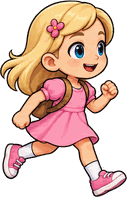
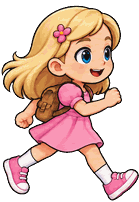
Fix "Дальше" on phones, smooth 6-frame run, crouch with low shots
- Level-complete card: the nested button kept scrollFactor 1, so its tap
  area drifted by the camera scroll and "Дальше" worked only near the start
  of a level; pinToScreen() fixes the whole card, plus a double-press guard
- New Codex run cycle (6 frames, legs alternate, frames aligned on the
  head with a shared ground line) instead of the limping 4-frame one
- Crouch: hold down (keyboard or an almost vertical push on the pad) to
  squat; smaller body, low shots hit hedgehogs, stands up only with room
  above; body resize keeps prev positions so platforms don't drop Alice

diff --git a/src/game/player.ts b/src/game/player.ts
@@ -1,6 +1,6 @@
 import Phaser from 'phaser';
 import { PHYS, PLAYER } from './constants';
-import { REF_H as REF } from './assets';
+import { REF_H as REF, hasArt } from './assets';
 import { InputState } from './controls';
 import { sfx } from './sfx';
 import type { LevelScene } from '../scenes/Level';
@@ -16,6 +16,7 @@ export class Player {
   maxHearts: number;
   climbing = false;
   shieldOn = false;
+  crouching = false;
   frozen = false;
 
   private lastGround = -9999;
@@ -76,6 +77,7 @@ export class Player {
     // --- climbing trees and vines ---
     const climbHere = this.scene.climbableAt(b.center.x, b.center.y);
     if (!this.climbing && climbHere && (inp.up || (inp.down && !this.onGround)) && now > this.climbLockUntil && !hurt) {
+      if (this.crouching) this.setCrouch(false);
       this.climbing = true;
       this.airJumps = 0;
     }
@@ -110,10 +112,15 @@ export class Player {
       }
     }
 
+    // --- crouch (hold down on the ground): smaller body, low shots; stands up only where there is room ---
+    const wantCrouch = inp.down && this.onGround && !hurt;
+    if (wantCrouch && !this.crouching) this.setCrouch(true);
+    else if (!wantCrouch && this.crouching && this.canStand()) this.setCrouch(false);
+
     // --- running, shield ---
-    this.shieldOn = inp.shield && !hurt;
+    this.shieldOn = inp.shield && !hurt && !this.crouching;
     if (!hurt) {
-      const speed = this.shieldOn ? PHYS.shieldSpeed : PHYS.runSpeed;
+      const speed = this.crouching ? 0 : this.shieldOn ? PHYS.shieldSpeed : PHYS.runSpeed;
       const target = dir * speed;
       const accel = this.onGround ? 0.35 : 0.2;
       b.setVelocityX(Phaser.Math.Linear(b.velocity.x, target, accel));
@@ -121,7 +128,8 @@ export class Player {
     }
 
     // --- jumping: coyote time, buffer, double jump, variable height ---
-    if (this.jumpBufferUntil > now && !hurt) {
+    if (this.jumpBufferUntil > now && !hurt && this.crouching && this.canStand()) this.setCrouch(false);
+    if (this.jumpBufferUntil > now && !hurt && !this.crouching) {
       if (now - this.lastGround < PHYS.coyoteMs) {
         b.setVelocityY(-PHYS.jumpVel);
         this.lastGround = -9999;
@@ -141,10 +149,31 @@ export class Player {
     if (inp.shoot && now >= this.shootReadyAt && !this.shieldOn && !hurt) {
       this.shootReadyAt = now + PLAYER.shootCdMs;
       this.shootAnimUntil = now + 220;
-      this.scene.shootHeart(b.center.x + this.facing * 40, b.center.y - 6, this.facing);
+      // from a crouch the heart flies low, at hedgehog height
+      const y = this.crouching ? b.bottom - 40 : b.center.y - 6;
+      this.scene.shootHeart(b.center.x + this.facing * 40, y, this.facing);
     }
 
     this.render(now, dt);
+  }
+
+  private setCrouch(on: boolean) {
+    this.crouching = on;
+    const h = on ? PLAYER.crouchH : PLAYER.bodyH;
+    // the zone is bodyH tall; keep the feet where they are by offsetting the smaller body down
+    this.body.setSize(PLAYER.bodyW, h, false);
+    this.body.setOffset(0, PLAYER.bodyH - h);
+    // same frame: platforms, shots and the sprite see the new size. prev/prevFrame must follow too, otherwise
+    // the physics post-update reads the offset change as movement and shoves the zone 32px (through platforms)
+    this.body.updateFromGameObject();
+    this.body.prev.copy(this.body.position);
+    this.body.prevFrame.copy(this.body.position);
+  }
+
+  private canStand() {
+    const b = this.body;
+    const top = b.bottom - PLAYER.bodyH + 4;
+    return !this.scene.solidAt(b.left + 4, top) && !this.scene.solidAt(b.right - 4, top);
   }
 
   private stopClimb() {
@@ -157,23 +186,27 @@ export class Player {
     let key = 'alice-idle';
     if (now < this.hurtUntil) key = 'alice-hurt';
     else if (this.climbing) key = Math.floor(this.climbClock * 6) % 2 ? 'alice-climb2' : 'alice-climb1';
+    else if (this.crouching && hasArt(this.scene, 'alice-crouch')) key = now < this.shootAnimUntil ? 'alice-crouch-shoot' : 'alice-crouch';
+    else if (this.crouching) key = 'alice-shield'; // fallback pose if the crouch art is missing
     else if (this.shieldOn) key = 'alice-shield';
     else if (now < this.shootAnimUntil) key = 'alice-shoot';
     else if (!this.onGround) key = b.velocity.y < 0 ? 'alice-jump' : 'alice-fall';
     else if (Math.abs(b.velocity.x) > 20) {
-      const before = Math.floor(this.runClock * 12);
+      // 6-frame cycle (contact, down, passing for each leg); the old 4-frame art is a fallback
+      const frames = hasArt(this.scene, 'alice-run6') ? 6 : 4;
+      const fps = frames === 6 ? 14 : 12;
+      const before = Math.floor(this.runClock * fps);
       this.runClock += dt * (Math.abs(b.velocity.x) / PHYS.runSpeed);
-      const frame = Math.floor(this.runClock * 12);
-      key = `alice-run${(frame % 4) + 1}`;
-      // a footstep whenever a foot lands (frames 1 and 3 of the run cycle)
-      if (frame !== before && frame % 2 === 0) sfx.step(this.scene.def.ground === 'grass' ? 'grass' : 'stone');
+      const frame = Math.floor(this.runClock * fps);
+      key = `alice-run${(frame % frames) + 1}`;
+      // a footstep whenever a foot lands (the contact frames)
+      if (frame !== before && frame % (frames / 2) === 0) sfx.step(this.scene.def.ground === 'grass' ? 'grass' : 'stone');
     }
     this.view.setTexture(key);
     this.view.setFlipX(this.facing < 0);
     this.view.setPosition(b.center.x, b.bottom + 3);
-    const breathe = key === 'alice-idle' ? 1 + Math.sin(now / 300) * 0.015 : 1;
-    const s = PLAYER.viewH / REF.character;
-    this.view.setScale(s, s * breathe);
+    const breathe = key === 'alice-idle' ? 1 + Math.sin(now / 300) * 0.01 : 1;
+    this.view.setScale((PLAYER.viewH / REF.character) * breathe);
     this.view.setAlpha(this.invulnerable && Math.floor(now / 60) % 2 ? 0.55 : 1);
   }
 
@@ -207,6 +240,7 @@ export class Player {
 
   teleport(x: number, y: number) {
     if (this.climbing) this.stopClimb();
+    if (this.crouching) this.setCrouch(false);
     this.body.reset(x, y);
     this.body.setVelocity(0, 0);
     this.invulnUntil = this.scene.time.now + PLAYER.invulnMs;

diff --git a/src/scenes/Level.ts b/src/scenes/Level.ts
@@ -5,7 +5,7 @@ import { Player } from '../game/player';
 import { Enemy, ENEMY_CHARS, Witch } from '../game/enemies';
 import { Keyboard, InputState, blank } from '../game/controls';
 import { hasArt } from '../game/assets';
-import { paintedButton, paintedPanel, ribbonTitle } from '../game/ui';
+import { paintedButton, paintedPanel, ribbonTitle, pinToScreen } from '../game/ui';
 import { sfx, playMusic, stopMusic } from '../game/sfx';
 import { load, save } from '../game/save';
 
@@ -177,6 +177,7 @@ export class LevelScene extends Phaser.Scene {
     const banner = this.add.container(viewW(this) / 2, GAME_H * 0.3).setScrollFactor(0).setDepth(100);
     banner.add(ribbonTitle(this, 0, 0, this.def.name, 42, 640));
     banner.add(this.add.text(0, 92, this.def.goal, titleStyle(32)).setOrigin(0.5));
+    pinToScreen(banner);
     this.tweens.add({ targets: banner, alpha: 0, delay: 2200, duration: 600, onComplete: () => banner.destroy() });
   }
 
@@ -1152,11 +1153,17 @@ export class LevelScene extends Phaser.Scene {
     panel.add(this.add.text(0, -30, `★ ${this.starsHere} ${plural(this.starsHere, 'звёздочка', 'звёздочки', 'звёздочек')}`, titleStyle(36, '#ffc93a', '#8a5a00')).setOrigin(0.5));
     const crystals = load().crystals.filter(Boolean).length;
     panel.add(this.add.text(0, 25, `Волшебных ключиков: ${crystals} из 5`, titleStyle(30, '#49c9e8', '#1d4e6b')).setOrigin(0.5));
+    let leaving = false;
     const go = () => {
+      if (leaving) return; // tap and key press must not both fire
+      leaving = true;
       cam.fadeOut(300);
       this.time.delayedCall(320, () => this.scene.start('Map'));
     };
     panel.add(paintedButton(this, 0, 115, 'Дальше ▶', 38, go));
+    // children must not scroll with the camera either, otherwise the button's tap area drifts away
+    // from where it is drawn (on the phone "Дальше" worked only near the start of a level)
+    pinToScreen(panel);
     panel.setScale(0.2).setAlpha(0);
     this.tweens.add({ targets: panel, scale: 1, alpha: 1, duration: 450, delay: 900, ease: 'Back.easeOut' });
 

diff --git a/src/scenes/Menus.ts b/src/scenes/Menus.ts
@@ -91,7 +91,7 @@ export class TitleScene extends Phaser.Scene {
     this.tweens.add({ targets: play, scale: 1.08, yoyo: true, repeat: -1, duration: 700 });
     const hintY = GAME_H - (isTouchDevice() ? 70 : 40);
     const hint = this.add
-      .text(GAME_W / 2, hintY, isTouchDevice() ? 'Кнопки на экране: слева — ходить, справа — прыгать и стрелять' : 'Стрелки — бег  •  Пробел — прыжок  •  X — сердечки  •  Z — щит  •  C — Кеша', titleStyle(22))
+      .text(GAME_W / 2, hintY, isTouchDevice() ? 'Слева — ходить (вниз — присесть), справа — прыгать и стрелять' : 'Стрелки — бег  •  ↓ — присесть  •  Пробел — прыжок  •  X — сердечки  •  Z — щит  •  C — Кеша', titleStyle(22))
       .setOrigin(0.5)
       .setDepth(2);
     const hb = this.add.graphics();

diff --git a/src/game/ui.ts b/src/game/ui.ts
@@ -9,6 +9,16 @@ import { sfx } from './sfx';
  * if a picture is missing, a simple drawn version is used.
  */
 
+/** Fix a container and everything inside it (nested containers too) to the screen. */
+export function pinToScreen(c: Phaser.GameObjects.Container) {
+  c.setScrollFactor(0);
+  for (const child of c.list) {
+    const o = child as Phaser.GameObjects.GameObject & { setScrollFactor?: (x: number, y?: number) => unknown };
+    if (child instanceof Phaser.GameObjects.Container) pinToScreen(child);
+    else o.setScrollFactor?.(0, 0);
+  }
+}
+
 export function paintedButton(scene: Phaser.Scene, x: number, y: number, label: string, size: number, cb: () => void, minWidth = 0) {
   const c = scene.add.container(x, y);
   const text = scene.add.text(0, -size * 0.06, label, titleStyle(size, '#ffffff', '#b8326f')).setOrigin(0.5);

diff --git a/src/scenes/Hud.ts b/src/scenes/Hud.ts
@@ -146,7 +146,8 @@ export class HudScene extends Phaser.Scene {
         if (dx < -38) touch.left = true;
         if (dx > 38) touch.right = true;
         if (dy < -52) touch.up = true;
-        if (dy > 52) touch.down = true;
+        // 'down' (crouch / climb down) only for an almost vertical push: a thumb sliding right-and-down keeps running
+        if (dy > 52 && Math.abs(dx) < dy * 0.6) touch.down = true;
         const len = Math.min(1, Math.hypot(dx, dy) / 120);
         const a = Math.atan2(dy, dx);
         knob = { x: PAD.x + Math.cos(a) * len * 120, y: PAD.y + Math.sin(a) * len * 120 };

diff --git a/src/game/assets.ts b/src/game/assets.ts
@@ -19,6 +19,10 @@ export const ASSETS: Record<string, AssetSpec> = {
   'alice-run2': A(120, 200, 0xff7eb6, 'body'),
   'alice-run3': A(130, 200, 0xff7eb6, 'body'),
   'alice-run4': A(120, 200, 0xff7eb6, 'body'),
+  'alice-run5': A(4, 4, 0, 'none'),
+  'alice-run6': A(4, 4, 0, 'none'),
+  'alice-crouch': A(4, 4, 0, 'none'),
+  'alice-crouch-shoot': A(4, 4, 0, 'none'),
   'alice-jump': A(130, 190, 0xff7eb6, 'body'),
   'alice-fall': A(140, 200, 0xff7eb6, 'body'),
   'alice-climb1': A(110, 210, 0xff7eb6, 'body'),

diff --git a/src/game/constants.ts b/src/game/constants.ts
@@ -41,6 +41,7 @@ export const PHYS = {
 export const PLAYER = {
   bodyW: 40,
   bodyH: 88,
+  crouchH: 56,
   viewH: 114,
   maxHearts: 3,
   heartCap: 5,

diff --git a/art/build_assets.py b/art/build_assets.py
@@ -18,7 +18,7 @@ CHAR_H = 200  # reference height of the first frame of every character sheet (se
 ITEM_H = 128
 
 
-def split(sheet: Image.Image, count: int, min_share=0.02, alpha_floor=0):
+def split(sheet: Image.Image, count: int, min_share=0.02, alpha_floor=0, common_rows=False):
     """Split a sheet of `count` side-by-side objects into images, left to right.
     Separate silhouettes are taken as they are (small bits go to the nearest one);
     touching ones are cut at the emptiest column near each boundary."""
@@ -42,11 +42,15 @@ def split(sheet: Image.Image, count: int, min_share=0.02, alpha_floor=0):
             owner = min(big, key=lambda b: (centre(b)[0] - cx) ** 2 + (centre(b)[1] - cy) ** 2)
             groups[owner].append(k)
         out = []
+        rows = np.nonzero(mask.any(1))[0]
         for k in big:
             keep = np.isin(lab, [g + 1 for g in groups[k]])
             piece = sheet.copy()
             piece.putalpha(Image.fromarray(np.where(keep, a, 0).astype('uint8')))
-            out.append(piece.crop(piece.getbbox()))
+            box = piece.getbbox()
+            if common_rows:
+                box = (box[0], int(rows[0]), box[2], int(rows[-1]) + 1)
+            out.append(piece.crop(box))
         return out
     colsum = mask.sum(0)
     q = sheet.width // count
@@ -73,14 +77,17 @@ def save(img: Image.Image, name: str, jpg=False):
     print(f'  {name}.{"jpg" if jpg else "png"} {img.width}x{img.height}')
 
 
-def sheet(src: str, names: list[str], ref_index=0, ref_h=CHAR_H, same_scale=True, blur=0.0, **kw):
+def sheet(src: str, names: list[str], ref_index=0, ref_h=CHAR_H, same_scale=True, blur=0.0, ref_frame_h=None, **kw):
     path = SRC / src
     if not path.exists():
         print(f'skip {src} (missing)')
         return
     print(src)
     frames = split(Image.open(path).convert('RGBA'), len(names), **kw)
-    k = ref_h / frames[ref_index].height
+    # ref_frame_h: measure the reference by its own silhouette (frames may be padded to a common height)
+    ref_img = frames[ref_index]
+    ref_px = ref_img.getchannel('A').point(lambda v: 255 if v > 40 else 0).getbbox()
+    k = ref_h / ((ref_px[3] - ref_px[1]) if ref_frame_h and ref_px else ref_img.height)
     for f, name in zip(frames, names):
         s = k if same_scale else ref_h / f.height
         out = f.resize((max(1, round(f.width * s)), max(1, round(f.height * s))), Image.LANCZOS)
@@ -114,6 +121,27 @@ def align_on_head(names: list[str]):
     for f, (ax, ay), n in zip(frames, anchors, names):
         canvas = Image.new('RGBA', (left + right, top + bottom), (0, 0, 0, 0))
         canvas.paste(f, (left - ax, top - ay), f)
+        save(canvas, n)
+
+
+def align_on_torso(names: list[str]):
+    """Same canvas for every frame, head/torso (top 40% of the silhouette) at the same x, bottoms kept."""
+    paths = [OUT / f'{n}.png' for n in names]
+    if not all(p.exists() for p in paths):
+        return
+    frames = [Image.open(p).convert('RGBA') for p in paths]
+    anchors = []
+    for f in frames:
+        a = np.asarray(f.getchannel('A')) > 40
+        rows = np.nonzero(a.any(1))[0]
+        top = a[rows[0]: rows[0] + int((rows[-1] - rows[0]) * 0.4)]
+        anchors.append(int(np.nonzero(top)[1].mean()))
+    left = max(anchors)
+    right = max(f.width - ax for f, ax in zip(frames, anchors))
+    height = max(f.height for f in frames)
+    for f, ax, n in zip(frames, anchors, names):
+        canvas = Image.new('RGBA', (left + right, height), (0, 0, 0, 0))
+        canvas.paste(f, (left - ax, height - f.height), f)
         save(canvas, n)
 
 
@@ -160,6 +188,14 @@ sheet('alice-a.png', ['alice-idle', 'alice-run1', 'alice-run2', 'alice-run3', 'a
 sheet('alice-b.png', ['alice-fall', 'alice-climb1', 'alice-climb2', 'alice-shoot', 'alice-shield', 'alice-hurt'], ref_index=3)
 sheet('kesha.png', ['kesha-fly1', 'kesha-fly2', 'kesha-blow'], min_share=0.004)
 align_on_head(['kesha-fly1', 'kesha-fly2', 'kesha-blow'])
+
+# Alice's 6-frame run cycle (legs alternate; the up-phases keep their small bounce because all frames
+# share the sheet's ground line). Scale: the contact frames are as tall as the idle pose.
+sheet('alice-run.png', [f'alice-run{i}' for i in range(1, 7)], ref_h=196, ref_frame_h=True, common_rows=True)
+align_on_torso([f'alice-run{i}' for i in range(1, 7)])
+# crouch: panel 1 is a standing Alice drawn only to match the size, then the two crouch poses
+sheet('alice-crouch.png', ['_alice-ref', 'alice-crouch', 'alice-crouch-shoot'], ref_h=CHAR_H, ref_frame_h=True)
+(OUT / '_alice-ref.png').unlink(missing_ok=True)
 sheet('witch.png', ['witch-fly', 'witch-cast', 'witch-kind'], min_share=0.004)
 sheet('hedgehog.png', ['hedgehog1', 'hedgehog2'])
 sheet('mushroom.png', ['mushroom1', 'mushroom2', 'mushroom-flat'])

diff --git a/docs/CONCEPT.md b/docs/CONCEPT.md
@@ -49,7 +49,7 @@
 
 ## Управление
 
-**Компьютер:** ← → / A D — бег, ↑ / W — лезть вверх, Пробел — прыжок, X или J — сердечки, Z или K — щит, C или L — Кеша, Esc — пауза.
+**Компьютер:** ← → / A D — бег, ↑ / W — лезть вверх, ↓ / S — присесть (и стрелять низко), Пробел — прыжок, X или J — сердечки, Z или K — щит, C или L — Кеша, Esc — пауза.
 
 **Телефон (горизонтально):** слева кнопки ◀ ▶ (и ▲▼ у деревьев), справа большие кнопки «Прыжок», «Сердечко», «Щит» и «Кеша». Если телефон держат вертикально, игра просит его повернуть.
 
